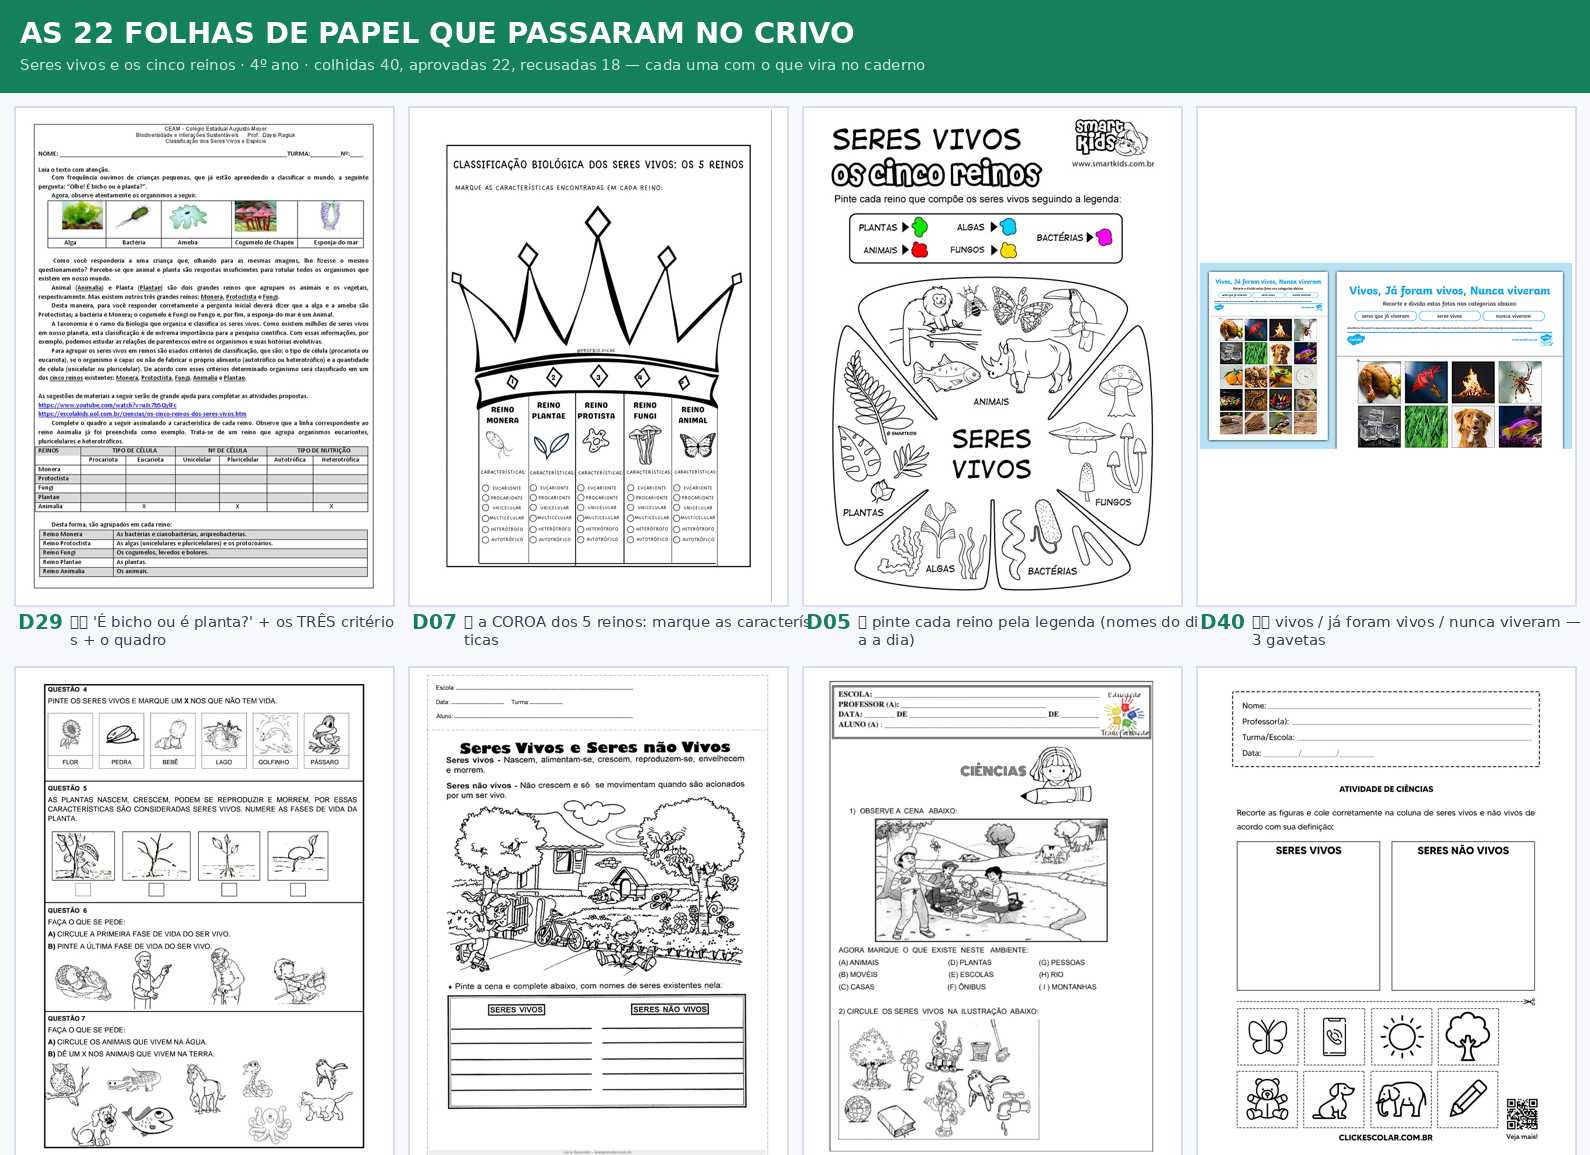
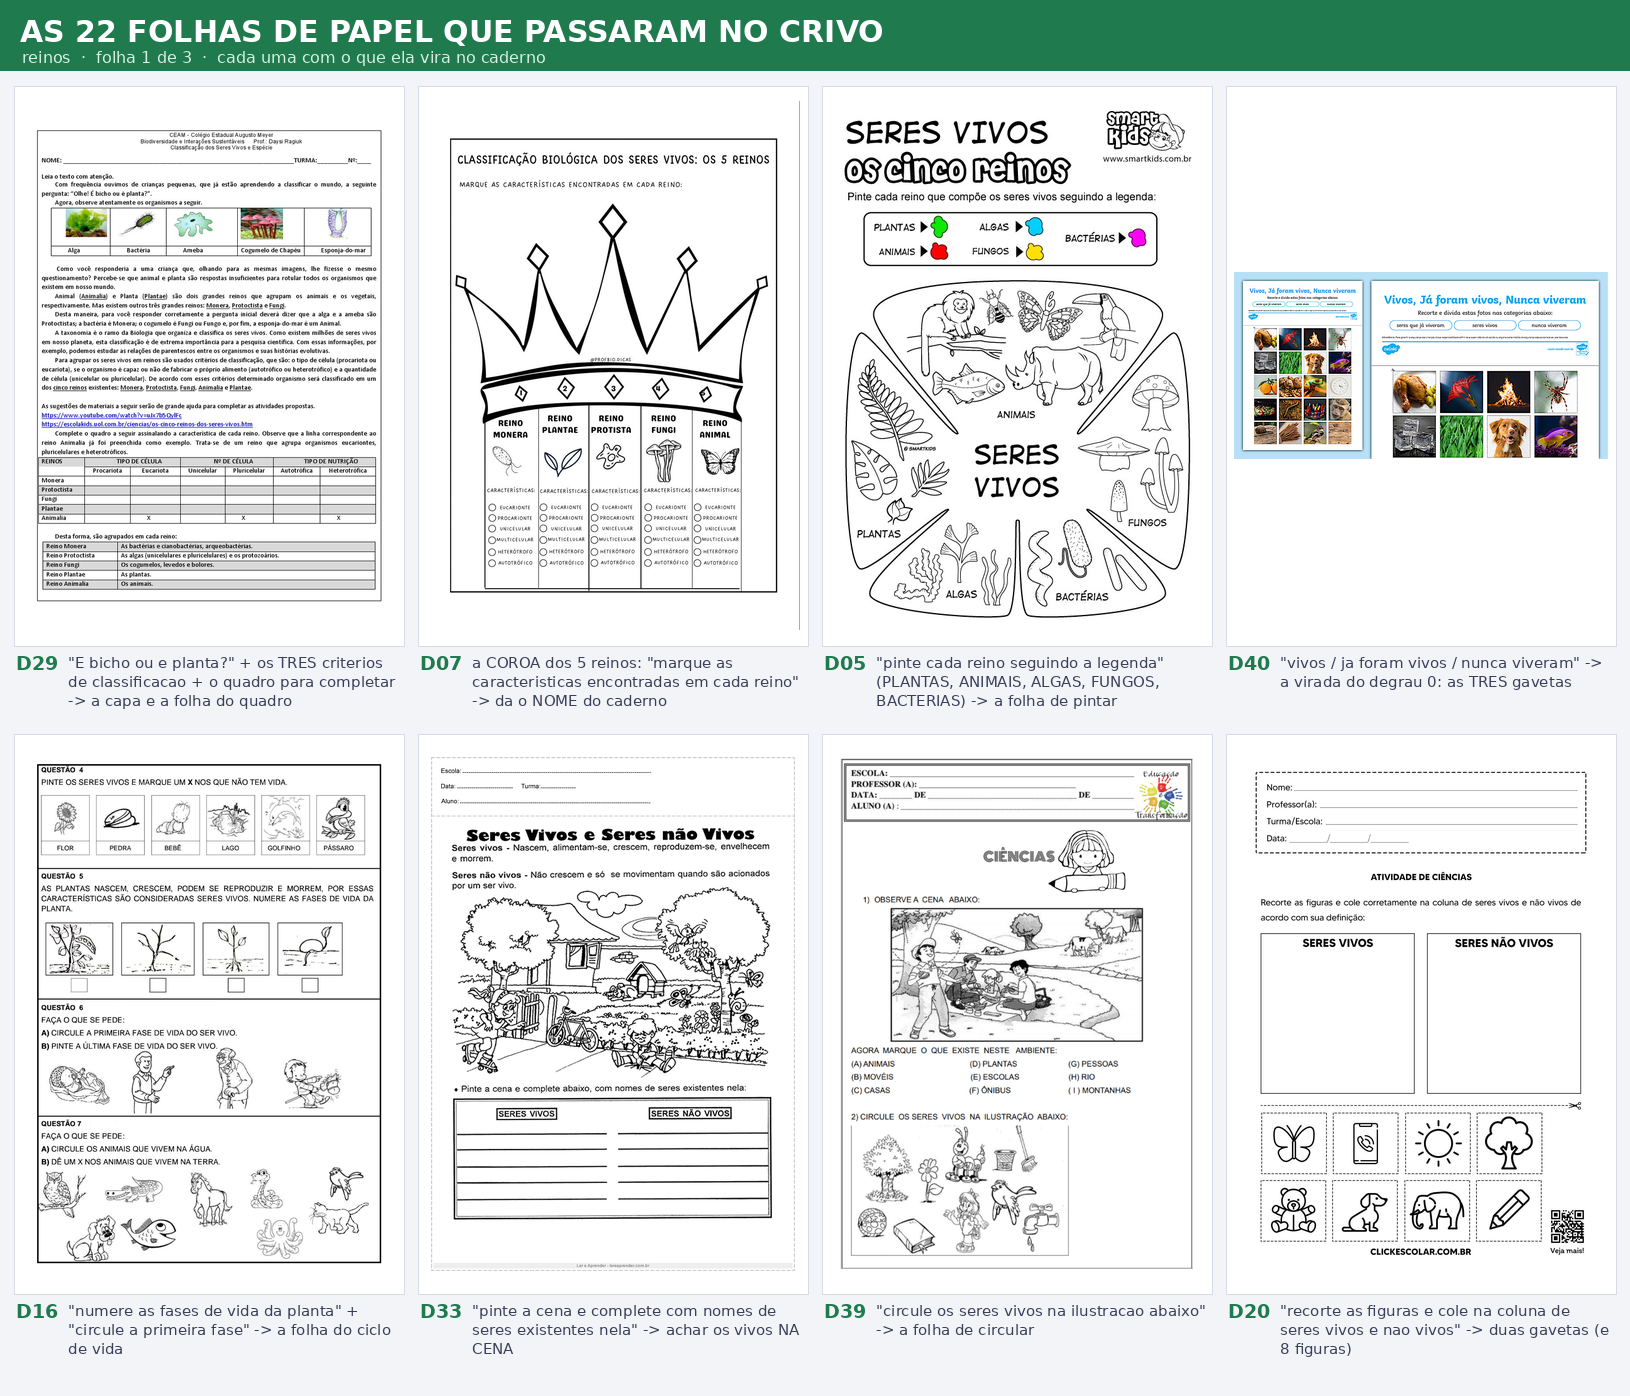
Contato-folha do crivo: script proprio, legenda sem emoji
O contato-folha das folhas de papel aprovadas e parte da entrega (ordem do
Marcos, 14/set/2026: "sempre mostre as folhas das atividades que encontrou,
que passaram pelo crivo do especialista"). A primeira versao dos reinos saiu
com QUADRADINHOS VAZIOS no lugar dos emoji — a fonte do runner (DejaVu) nao
tem os desenhos coloridos. Legenda e texto, e texto tem que ler.

_sequencias/contato_crivo.py monta a folha a partir de <assunto>.txt (uma
linha por folha: codigo|o que ela vira no caderno), sem emoji nenhum.

Claude-Session: https://claude.ai/code/session_01Mth3dz85yVNSprXDGxtzVs

diff --git a/_sequencias/contato_crivo.py b/_sequencias/contato_crivo.py
@@ -1,0 +1,161 @@
+# -*- coding: utf-8 -*-
+u"""
+============================================================
+ O CONTATO-FOLHA DO CRIVO — as folhas de papel que passaram
+
+ ⭐ ORDEM DO MARCOS (14/set/2026): *"sempre mostre as folhas das atividades que
+    encontrou, que passaram pelo crivo do especialista"*. É a seção 2b do
+    `SEQUENCIAS-DIDATICAS.md`: o contato-folha vai JUNTO com o caderno, na mesma
+    mensagem, nunca só o link. Ele é a prova de que o gesto da tela veio do papel
+    e não da minha cabeça.
+
+ ⚠ NADA DE EMOJI NA LEGENDA. A fonte do runner (DejaVu) não tem os desenhos
+    coloridos, e eles saem como QUADRADINHOS VAZIOS — foi o que aconteceu na
+    primeira folha dos reinos. Legenda é texto, e texto tem que ler.
+
+ Uso: python3 _sequencias/contato_crivo.py <assunto> <pasta-das-folhas> \\
+          [--por-folha 4] [--cols 4]
+      As legendas saem de `<assunto>.txt` ao lado (uma linha por folha:
+      `d07|a COROA dos 5 reinos: marque as caracteristicas`), ou do nome do
+      arquivo quando o .txt não existir.
+============================================================
+"""
+from __future__ import print_function
+
+import glob
+import io
+import os
+import sys
+
+from PIL import Image, ImageDraw, ImageFont
+
+AQUI = os.path.dirname(os.path.abspath(__file__))
+SAIDA = os.path.join(AQUI, u"crivo")
+FONTES = [u"/usr/share/fonts/truetype/dejavu/DejaVuSans-Bold.ttf",
+          u"/usr/share/fonts/truetype/dejavu/DejaVuSans.ttf"]
+
+
+def fonte(tam, negrito=False):
+    cam = FONTES[0] if negrito else FONTES[-1]
+    try:
+        return ImageFont.truetype(cam, tam)
+    except Exception:
+        return ImageFont.load_default()
+
+
+def quebra(texto, fnt, larg, dr):
+    u"""quebra o texto em linhas que cabem em `larg` pixels."""
+    linhas, atual = [], u""
+    for pal in texto.split():
+        tenta = (atual + u" " + pal).strip()
+        if dr.textlength(tenta, font=fnt) <= larg:
+            atual = tenta
+        else:
+            if atual:
+                linhas.append(atual)
+            atual = pal
+    if atual:
+        linhas.append(atual)
+    return linhas
+
+
+def main():
+    if len(sys.argv) < 3:
+        print(u"uso: python3 _sequencias/contato_crivo.py <assunto> <pasta-das-folhas>")
+        return 2
+    assunto = sys.argv[1]
+    pasta = sys.argv[2]
+    cols = 4
+    por_folha = 8
+    if u"--cols" in sys.argv:
+        cols = int(sys.argv[sys.argv.index(u"--cols") + 1])
+    if u"--por-folha" in sys.argv:
+        por_folha = int(sys.argv[sys.argv.index(u"--por-folha") + 1])
+
+    legendas = {}
+    cam_txt = os.path.join(AQUI, assunto + u".txt")
+    ordem = []
+    if os.path.exists(cam_txt):
+        for lin in io.open(cam_txt, encoding=u"utf-8"):
+            lin = lin.strip()
+            if not lin or u"|" not in lin:
+                continue
+            cod, rot = lin.split(u"|", 1)
+            legendas[cod.strip()] = rot.strip()
+            ordem.append(cod.strip())
+    if not ordem:
+        print(u"NAO MEDI: sem %s — nao sei quais folhas passaram no crivo." % cam_txt)
+        return 2
+
+    if not os.path.isdir(SAIDA):
+        os.makedirs(SAIDA)
+
+    CEL_W, CEL_H, LEG_H = 390, 560, 74
+    MARG, TOPO = 14, 86
+    f_tit = fonte(30, True)
+    f_sub = fonte(16)
+    f_cod = fonte(19, True)
+    f_leg = fonte(15)
+
+    feitas, pag = [], []
+    for cod in ordem:
+        achou = sorted(glob.glob(os.path.join(pasta, cod + u"_*")))
+        if not achou:
+            print(u"   ! nao achei a folha %s em %s" % (cod, pasta))
+            continue
+        pag.append((cod, achou[0]))
+        if len(pag) == por_folha:
+            feitas.append(pag)
+            pag = []
+    if pag:
+        feitas.append(pag)
+    if not feitas:
+        print(u"NAO MEDI: nenhuma folha encontrada em %s." % pasta)
+        return 2
+
+    quantas = sum(len(p) for p in feitas)
+    saidas = []
+    for n, grupo in enumerate(feitas, 1):
+        linhas = (len(grupo) + cols - 1) // cols
+        W = MARG + cols * (CEL_W + MARG)
+        H = TOPO + linhas * (CEL_H + LEG_H + MARG) + MARG
+        im = Image.new(u"RGB", (W, H), u"#f2f4f8")
+        dr = ImageDraw.Draw(im)
+        dr.rectangle([0, 0, W, 70], fill=u"#1f7a4d")
+        dr.text((MARG + 6, 14),
+                u"AS %d FOLHAS DE PAPEL QUE PASSARAM NO CRIVO" % quantas,
+                font=f_tit, fill=u"#ffffff")
+        dr.text((MARG + 8, 48),
+                u"%s  ·  folha %d de %d  ·  cada uma com o que ela vira no caderno"
+                % (assunto.replace(u"-", u" "), n, len(feitas)),
+                font=f_sub, fill=u"#d9f0e3")
+        for i, (cod, cam) in enumerate(grupo):
+            cx = MARG + (i % cols) * (CEL_W + MARG)
+            cy = TOPO + (i // cols) * (CEL_H + LEG_H + MARG)
+            dr.rectangle([cx, cy, cx + CEL_W, cy + CEL_H], fill=u"#ffffff",
+                         outline=u"#d7dbe6")
+            try:
+                f = Image.open(cam).convert(u"RGB")
+                f.thumbnail((CEL_W - 16, CEL_H - 16), Image.LANCZOS)
+                im.paste(f, (cx + (CEL_W - f.width) // 2,
+                             cy + (CEL_H - f.height) // 2))
+            except Exception as e:
+                dr.text((cx + 10, cy + 10), u"(nao abriu: %s)" % e, font=f_leg,
+                        fill=u"#b03030")
+            dr.text((cx + 2, cy + CEL_H + 6), cod.upper(), font=f_cod, fill=u"#1f7a4d")
+            larg = dr.textlength(cod.upper(), font=f_cod) + 10
+            for k, lin in enumerate(quebra(legendas.get(cod, u""), f_leg,
+                                           CEL_W - larg - 4, dr)[:3]):
+                dr.text((cx + 2 + larg, cy + CEL_H + 8 + k * 19), lin,
+                        font=f_leg, fill=u"#3b4059")
+        cam_out = os.path.join(SAIDA, u"%s-aprovadas-%d.png" % (assunto, n))
+        im.save(cam_out, optimize=True)
+        saidas.append(cam_out)
+        print(u"   %s" % cam_out)
+    print(u"contato-folha do crivo: %d folha(s) de papel em %d imagem(ns)"
+          % (quantas, len(saidas)))
+    return 0
+
+
+if __name__ == "__main__":
+    sys.exit(main())
